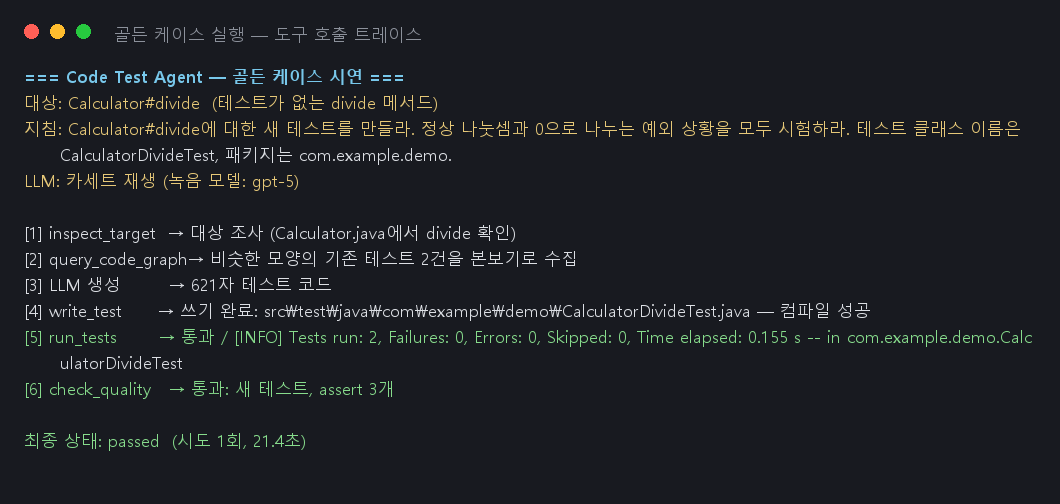
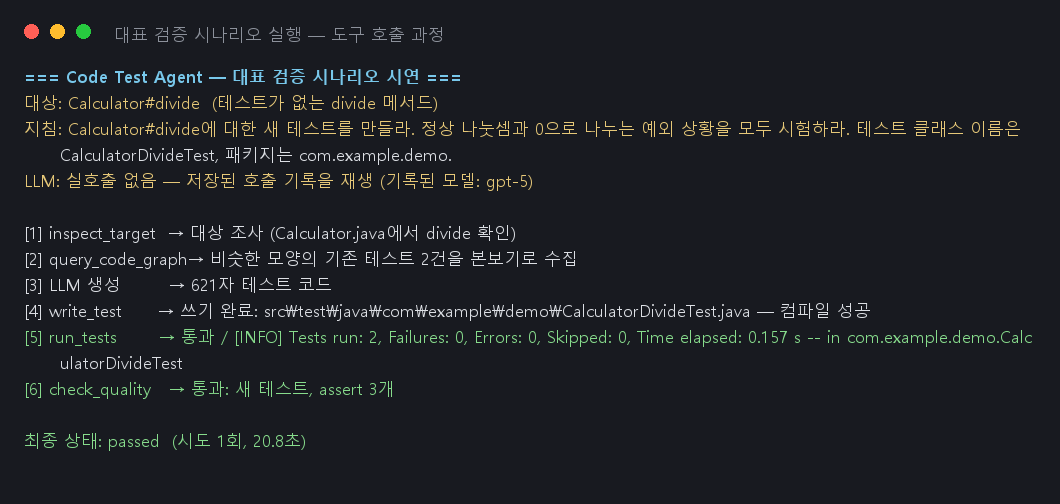
산출물 용어 정리: 좁은 은어 제거 (사용자 피드백)
- 카세트 → 저장된 LLM 호출 기록(파일), 골든 케이스 → 대표 검증 시나리오,
  재녹음 → 기록 재생성. few-shot·포트/어댑터 등은 첫 등장에 한 줄 풀이 추가
- 캡처 이미지 2장 재생성 (데모 재실행 20.8초 — 새 문구 반영)
- CLAUDE.md 글쓰기 가이드라인에 '좁은 은어도 금지' 항목 추가

검증: 실제 재실행으로 캡처 갱신, ruff 통과, pytest 54 passed

Claude-Session: https://claude.ai/code/session_011oG7PkVnNuqDQHT9n3xQt3

diff --git a/scripts/demo_golden.py b/scripts/demo_golden.py
@@ -1,6 +1,6 @@
-"""골든 케이스 시연 스크립트 — 카세트 재생으로 전체 흐름을 사람이 읽게 출력한다.
+"""대표 검증 시나리오 시연 스크립트 — 저장된 LLM 호출 기록을 재생해 전체 흐름을 출력한다.
 
-산출물(핵심 동작 검증)과 발표 데모에 쓴다. LLM 비용 0(재생), Docker 필요.
+산출물(핵심 동작 검증)과 발표 데모에 쓴다. LLM 비용 0(실호출 없음), Docker 필요.
 실행: .venv/Scripts/python scripts/demo_golden.py
 """
 
@@ -16,10 +16,10 @@ from llm.replay import ReplayClient  # noqa: E402
 
 
 def main() -> None:
-    print("=== Code Test Agent — 골든 케이스 시연 ===")
+    print("=== Code Test Agent — 대표 검증 시나리오 시연 ===")
     print(f"대상: {gc.TARGET}  (테스트가 없는 divide 메서드)")
     print(f"지침: {gc.INSTRUCTION}")
-    print(f"LLM: 카세트 재생 (녹음 모델: {gc.cassette_model()})")
+    print(f"LLM: 실호출 없음 — 저장된 호출 기록을 재생 (기록된 모델: {gc.cassette_model()})")
     print()
     started = time.monotonic()
     try:

diff --git a/CLAUDE.md b/CLAUDE.md
@@ -103,6 +103,10 @@ pytest -q                               # 단위 테스트 (test_layering.py 포
 - **조어 금지**: 실무에서 안 쓰는 번역어를 만들지 않는다.
   ❌ 단언 약화 검사 → ⭕ assert 검사 / ❌ 격리 컨테이너 → ⭕ Docker 샌드박스 /
   ❌ 접속 열쇠 → ⭕ API 토큰 / ❌ 코드 관계 지도 → ⭕ 코드 그래프
+- **좁은 은어도 금지**(사용자 피드백, 2026-09-01): 특정 라이브러리 문화권에서만 통하는
+  비유어는 산출물·사용자 대면 문서에 쓰지 않는다.
+  ❌ 카세트 → ⭕ 저장된 LLM 호출 기록(파일) / ❌ 골든 케이스 → ⭕ 대표 검증 시나리오 /
+  ❌ 재녹음 → ⭕ 기록 재생성. 코드 식별자(cassette 등)는 유지해도 된다
 - **문장은 짧게, 목록은 "핵심어: 설명" 한 줄**, 산출물 서술은 "~다" 문체
 - **예시 하나가 설명 열 줄보다 낫다** — 개념을 적으면 입·출력 예를 붙인다
 
